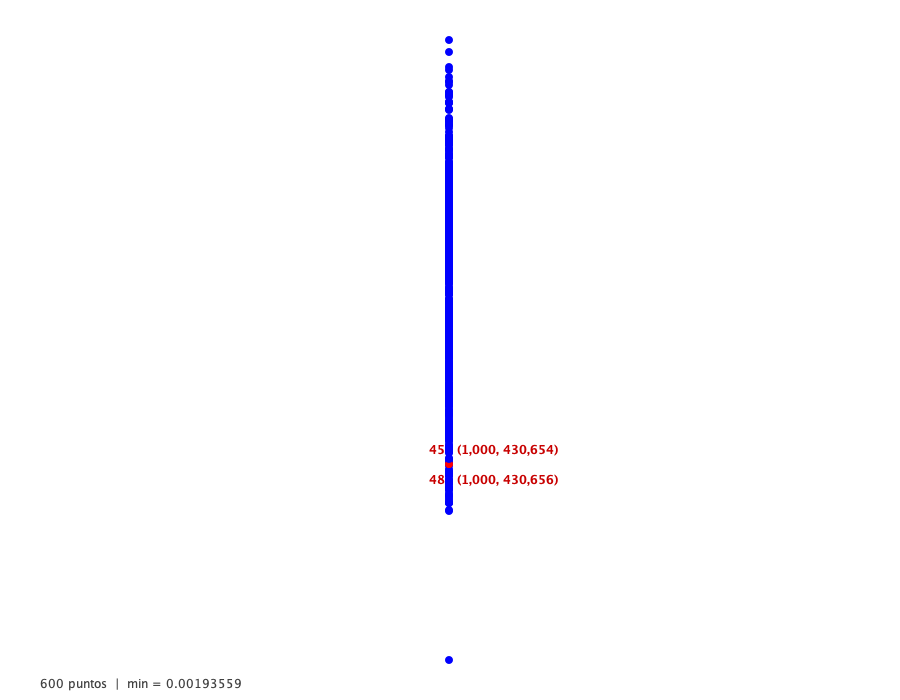
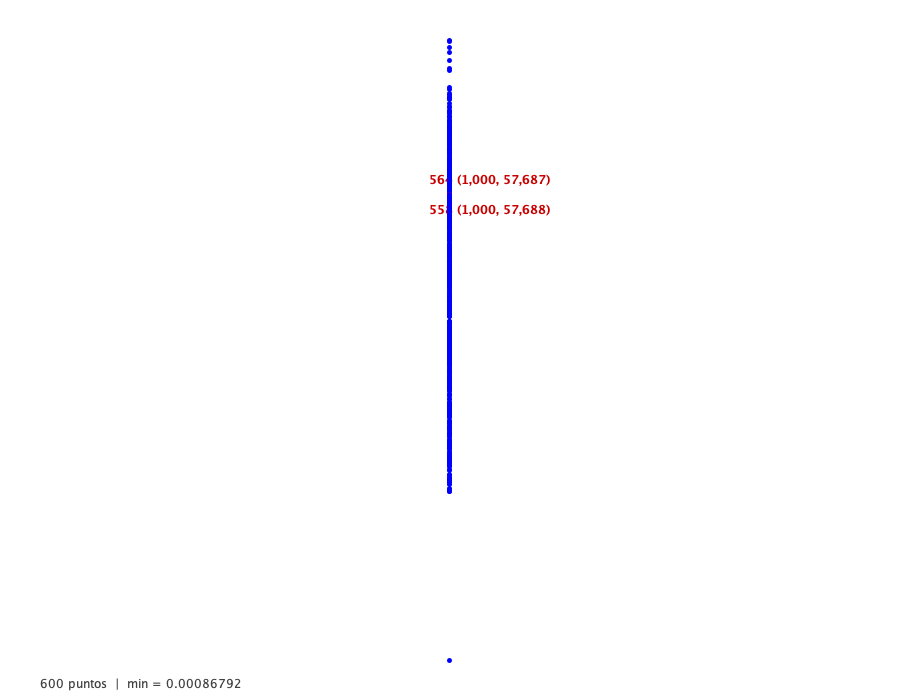
Panel: puntos de 5px para reducir solapes con datasets numerosos; imágenes actualizadas

diff --git a/Practica1/src/main/java/com/practica1/vista/PanelGrafico.java b/Practica1/src/main/java/com/practica1/vista/PanelGrafico.java
@@ -20,7 +20,7 @@ import com.practica1.modelo.ResultadoBusqueda;
 public class PanelGrafico extends JPanel {
 
     private static final int MARGEN = 40;
-    private static final int TAM_PUNTO = 8;
+    private static final int TAM_PUNTO = 5;   // reducido: evita solapes con 600+ puntos
 
     private List<Punto> puntos;
     private ResultadoBusqueda solucion;
